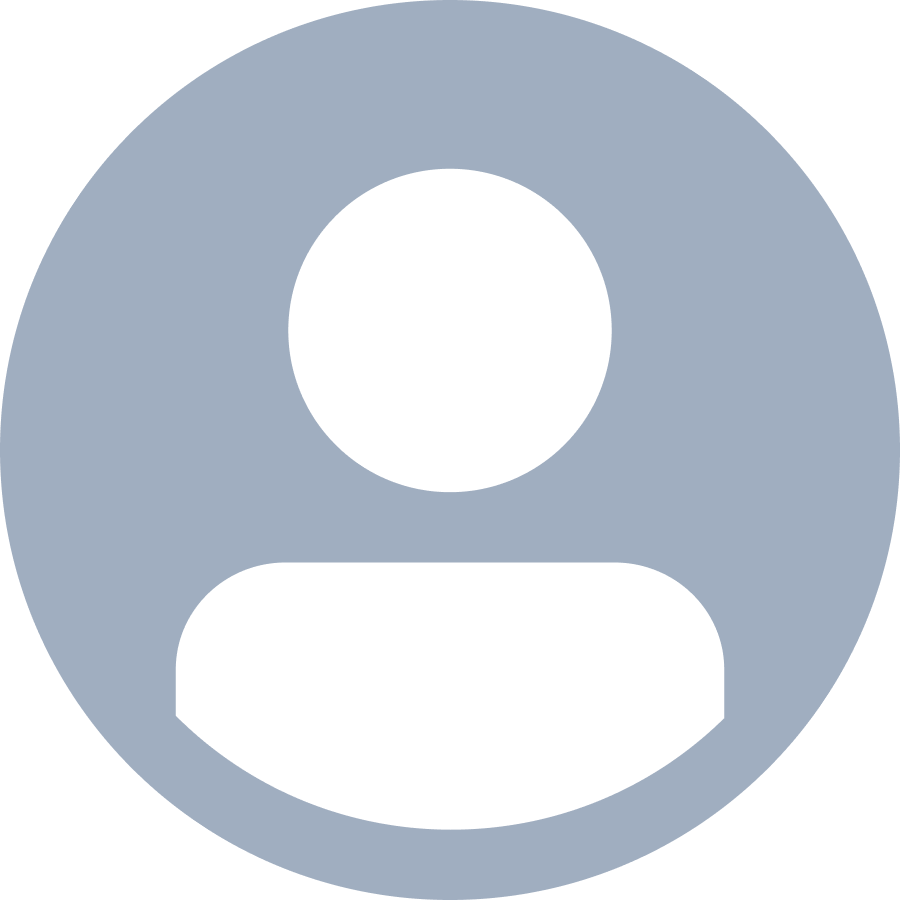
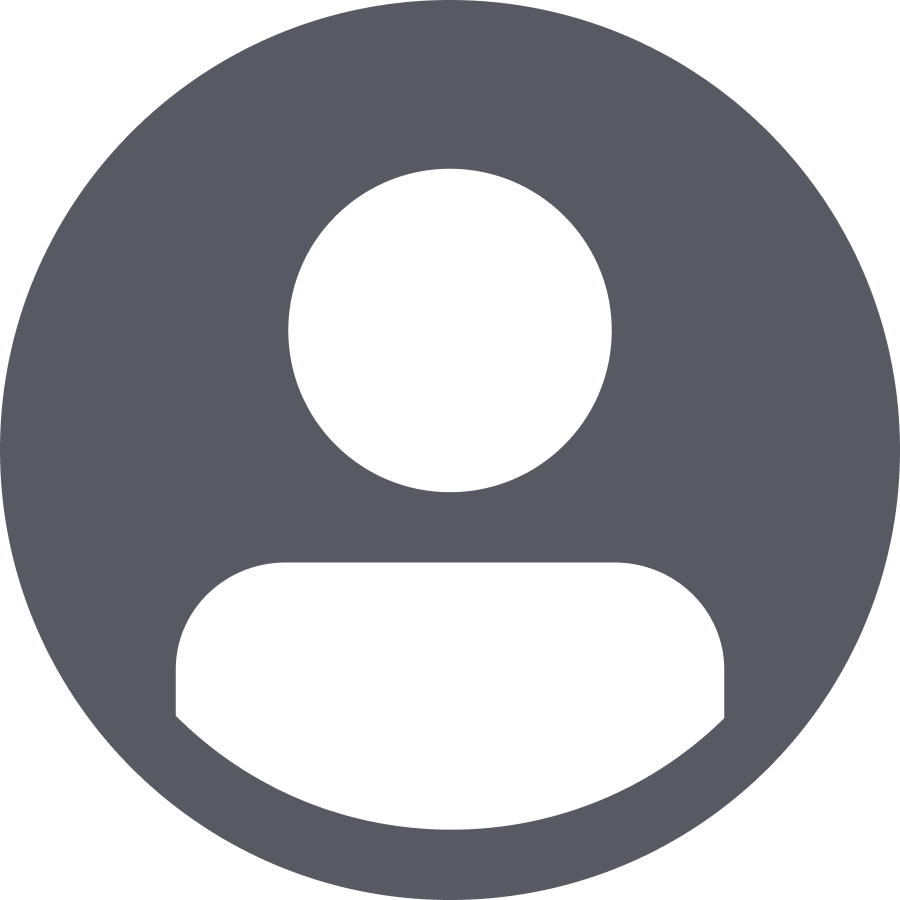
chore: remove unused assets

diff --git a/app/components/Avatar.tsx b/app/components/Avatar.tsx
@@ -1,6 +1,6 @@
 import React from "react";
 import { Avatar as _Avatar, AvatarProps } from "@beep/ui";
-import AvatarImage from "../assets/avatarDark.png";
+import AvatarImage from "../assets/avatar.png";
 
 interface Props extends AvatarProps {
   url: string | null | undefined;
